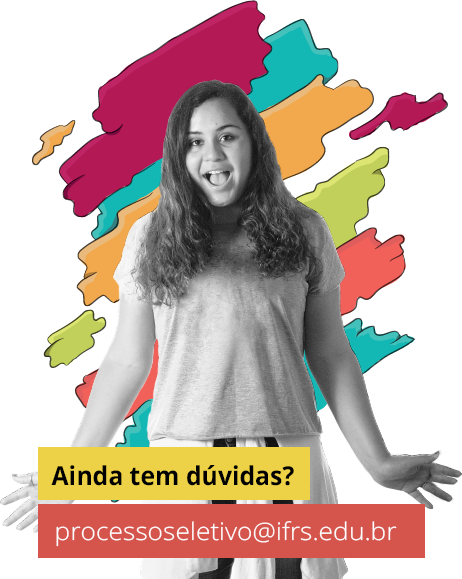
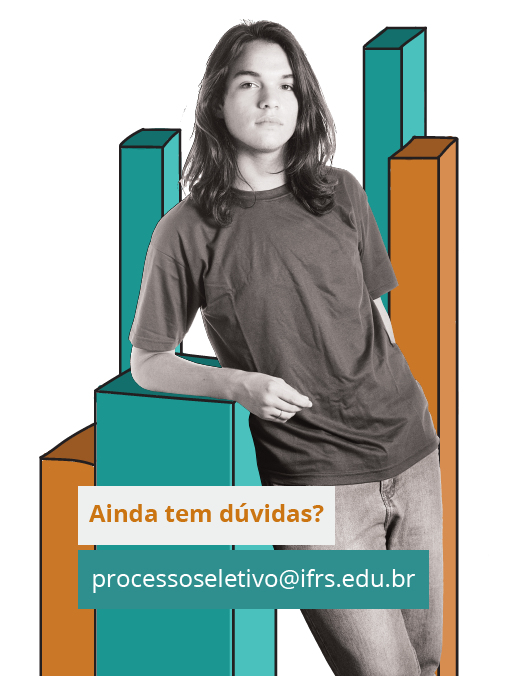
Novas imagens para o PS 2020/2

diff --git a/header.php b/header.php
@@ -43,7 +43,7 @@
         <h1 class="sr-only"><?php bloginfo('name'); ?></h1>
         <section class="container header">
             <div class="header__foto">
-                <img data-src="<?php echo get_stylesheet_directory_uri(); ?>/img/header-foto<?php echo mt_rand(1, 2); ?>.png" alt="" class="img-fluid" aria-hidden="true"/>
+                <img data-src="<?php echo get_stylesheet_directory_uri(); ?>/img/header-foto.png" alt="" class="img-fluid" aria-hidden="true"/>
             </div>
             <div class="header__marca">
                 <img src="<?php echo get_stylesheet_directory_uri(); ?>/img/header-marca.png" alt="" class="img-fluid" aria-hidden="true"/>
